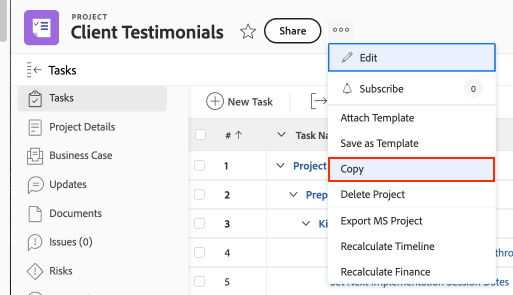
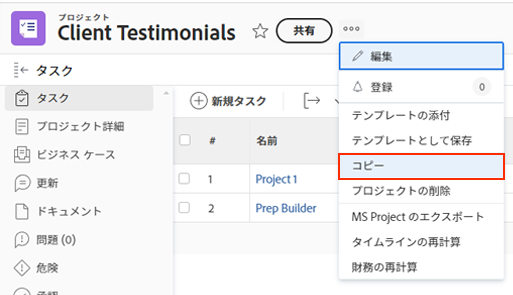
Updated by task 'AUTO_HANDOFF_1728920006992'  Changes for core/source commit https://git.corp.adobe.com/AdobeDocs/workfront-learn.en/commit/864198f778343634d28b304a0154c7041468faec

diff --git a/help/manage-work/manage-projects/copy-an-existing-project.md b/help/manage-work/manage-projects/copy-an-existing-project.md
@@ -12,15 +12,15 @@ recommendations: noDisplay,noCatalog
 jira: KT-10155
 exl-id: 90a87fef-70e9-42fc-ac55-415980ef32c7
 source-git-commit: 434069d95777eef7739917d8761c03a8e64b8433
-workflow-type: tm+mt
+workflow-type: ht
 source-wordcount: '155'
-ht-degree: 89%
+ht-degree: 100%
 
 ---
 
 # 既存のプロジェクトをコピー
 
-テンプレートを使用してプロジェクトを作成する代わりに、一度のみの使用のためプロジェクトをコピーするだけで済む場合があります。そのためには、標準ライセンスと、プロジェクトへの編集および作成アクセス権が必要です。
+テンプレートを使用してプロジェクトを作成する代わりに、一度のみの使用のためプロジェクトをコピーするだけで済む場合があります。これを行うには、プロジェクトの編集と作成のアクセス権を持つ標準ライセンスが必要です。
 
 コピーするプロジェクトに移動し、プロジェクト名の横にある 3 点メニューをクリックします。次に、「コピー」を選択します。
 

diff --git a/help/manage-work/create-and-manage-project-templates/share-a-project-template.md b/help/manage-work/create-and-manage-project-templates/share-a-project-template.md
@@ -1,6 +1,6 @@
 ---
 title: プロジェクトテンプレートの共有
-description: プロジェクトテンプレートを共有する方法、およびテンプレートから作成されたプロジェクトを共有する方法を説明します。
+description: プロジェクトテンプレートを共有する方法およびテンプレートから作成されたプロジェクトを共有する方法について説明します。
 activity: use
 feature: Work Management
 thumbnail: 335211.jpeg
@@ -13,9 +13,9 @@ jira: KT-8951
 exl-id: 9179fbc8-1000-4215-b2c3-de617c7f1d80
 doc-type: video
 source-git-commit: 434069d95777eef7739917d8761c03a8e64b8433
-workflow-type: tm+mt
+workflow-type: ht
 source-wordcount: '77'
-ht-degree: 79%
+ht-degree: 100%
 
 ---
 

diff --git a/help/manage-work/create-and-manage-project-templates/create-a-project-directly-from-a-template.md b/help/manage-work/create-and-manage-project-templates/create-a-project-directly-from-a-template.md
@@ -12,7 +12,7 @@ recommendations: noDisplay,noCatalog
 jira: KT-10156
 exl-id: 1f44eb26-98bf-4723-b162-27a4f8cb8177
 source-git-commit: 434069d95777eef7739917d8761c03a8e64b8433
-workflow-type: tm+mt
+workflow-type: ht
 source-wordcount: '197'
 ht-degree: 100%
 

diff --git a/help/manage-work/create-and-manage-project-templates/deactivate-a-project-template.md b/help/manage-work/create-and-manage-project-templates/deactivate-a-project-template.md
@@ -14,7 +14,7 @@ jira: KT-14749
 doc-type: video
 exl-id: ad9b9e1e-3d8c-4a0f-8f73-e204047485a6
 source-git-commit: 434069d95777eef7739917d8761c03a8e64b8433
-workflow-type: tm+mt
+workflow-type: ht
 source-wordcount: '125'
 ht-degree: 100%
 

diff --git a/help/manage-work/create-and-manage-project-templates/create-a-project-template.md b/help/manage-work/create-and-manage-project-templates/create-a-project-template.md
@@ -14,7 +14,7 @@ jira: KT-8950
 exl-id: 1f706148-c001-42a8-a675-48e91d445f0b
 doc-type: video
 source-git-commit: 434069d95777eef7739917d8761c03a8e64b8433
-workflow-type: tm+mt
+workflow-type: ht
 source-wordcount: '377'
 ht-degree: 100%
 

diff --git a/help/manage-work/create-and-manage-project-templates/edit-the-project-team-in-a-project-template.md b/help/manage-work/create-and-manage-project-templates/edit-the-project-team-in-a-project-template.md
@@ -14,7 +14,7 @@ jira: KT-14755
 doc-type: video
 exl-id: 9a92a0a5-5ea3-428d-a81a-2d217e6e3d59
 source-git-commit: 434069d95777eef7739917d8761c03a8e64b8433
-workflow-type: tm+mt
+workflow-type: ht
 source-wordcount: '84'
 ht-degree: 100%
 
